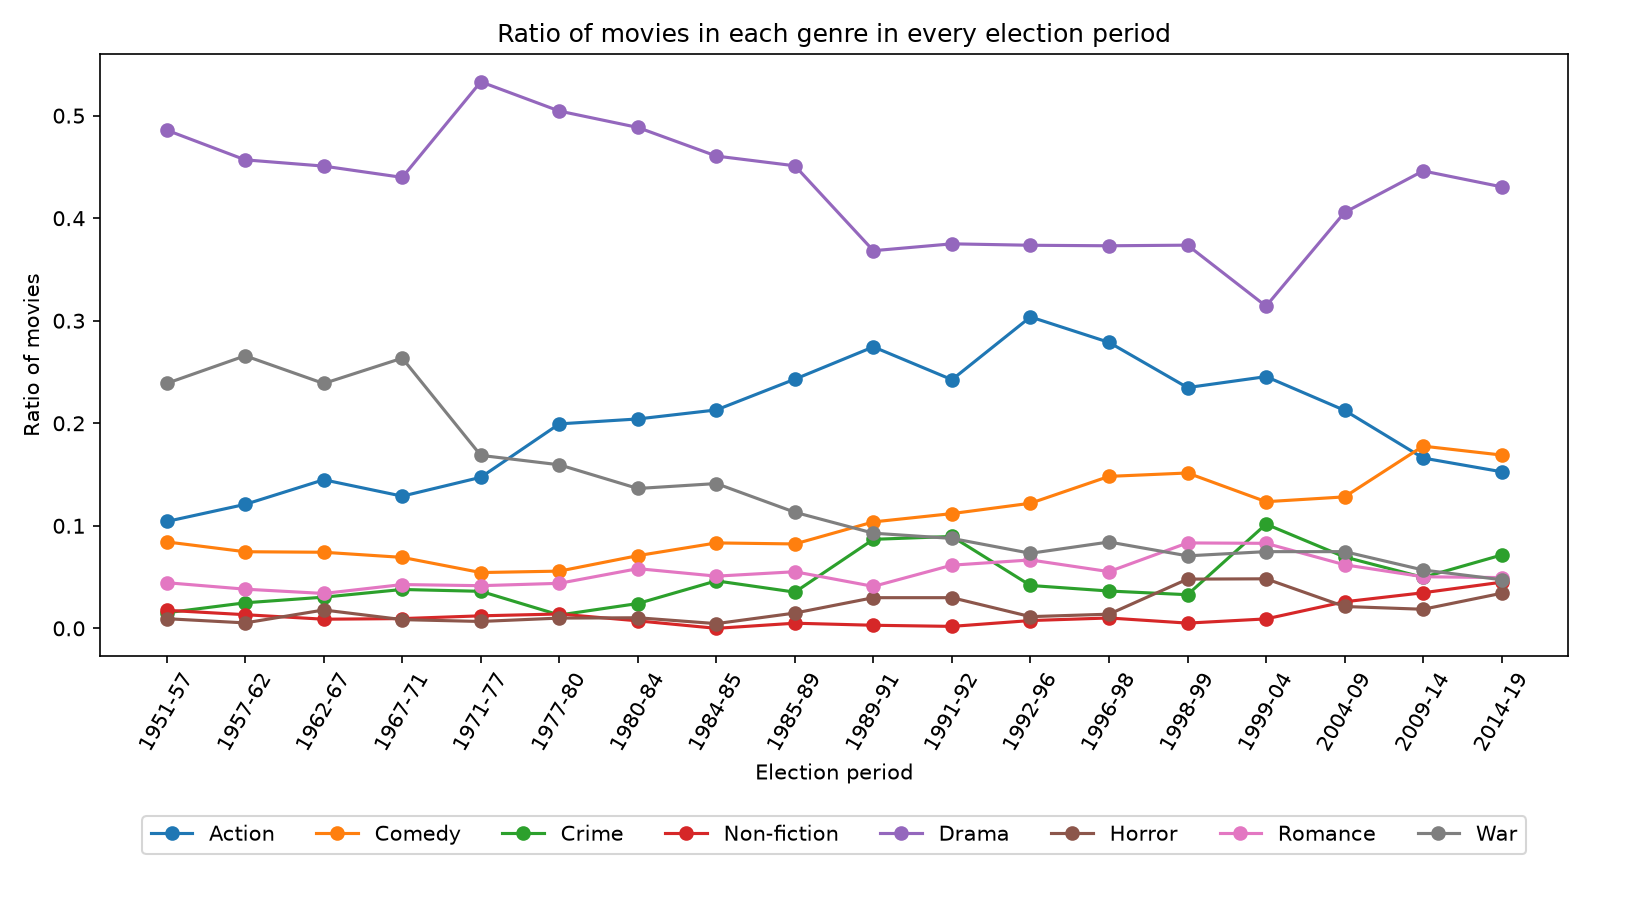
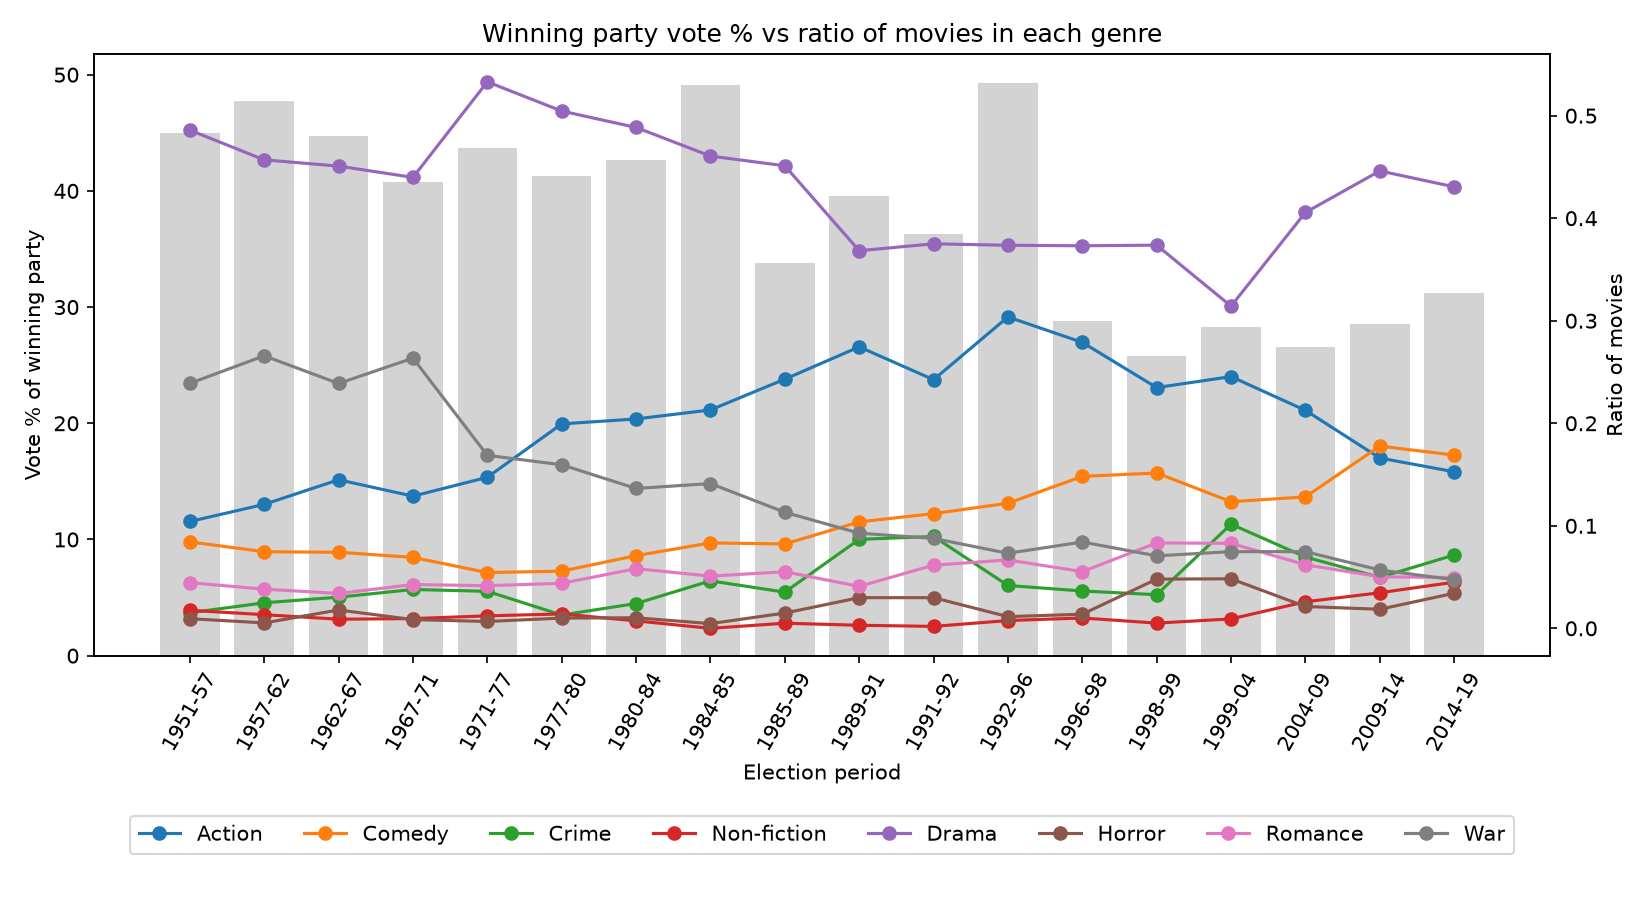
Added winning party vote percentage bars to election chart

diff --git a/analysis_files/elections_vs_movies.py b/analysis_files/elections_vs_movies.py
@@ -1,25 +1,35 @@
-# Election wise movies (1951 - 2019)
+# Election wise movies (1951 - 2019)
 # run from the main repo folder: python analysis_files/elections_vs_movies.py
 
 import pandas as pd
 import matplotlib.pyplot as plt
 
 movies = pd.read_csv("organized_data/election_wise_movies.csv")
+elections = pd.read_csv("organized_data/elections.csv")
 
 genres = ["Action", "Comedy", "Crime", "Non-fiction", "Drama", "Horror", "Romance", "War"]
 
-# every row is the time between two elections, label for the x axis like 1951-57
-movies["Period"] = movies["Start_Year"].astype(str) + "-" + (movies["End_Year"] % 100).astype(str).str.zfill(2)
+# vote % of the party that won the election at the start of each period
+elections = elections.rename(columns={"YEAR": "Start_Year"})
+data = pd.merge(movies, elections[["Start_Year", "PERCENTAGE"]], on="Start_Year")
 
-# Chart : ratio of each genre in every election period
-plt.figure(figsize=(11, 6))
+# label for the x axis, like 1951-57
+data["Period"] = data["Start_Year"].astype(str) + "-" + (data["End_Year"] % 100).astype(str).str.zfill(2)
+
+# Chart : winning vote % (bars) and ratio of each genre (lines)
+fig, ax1 = plt.subplots(figsize=(11, 6))
+ax1.bar(data["Period"], data["PERCENTAGE"], color="lightgrey")
+ax1.set_xlabel("Election period")
+ax1.set_ylabel("Vote % of winning party")
+ax1.tick_params(axis="x", rotation=60)
+
+ax2 = ax1.twinx()
 for g in genres:
-    plt.plot(movies["Period"], movies[g], marker="o", label=g)
-plt.xlabel("Election period")
-plt.ylabel("Ratio of movies")
-plt.xticks(rotation=60)
-plt.legend(loc="upper center", bbox_to_anchor=(0.5, -0.25), ncol=8)
-plt.title("Ratio of movies in each genre in every election period")
+    ax2.plot(data["Period"], data[g], marker="o", label=g)
+ax2.set_ylabel("Ratio of movies")
+ax2.legend(loc="upper center", bbox_to_anchor=(0.5, -0.25), ncol=8)
+
+plt.title("Winning party vote % vs ratio of movies in each genre")
 plt.tight_layout()
 plt.savefig("analysis_files/elections_vs_movies.png", dpi=150)
 
